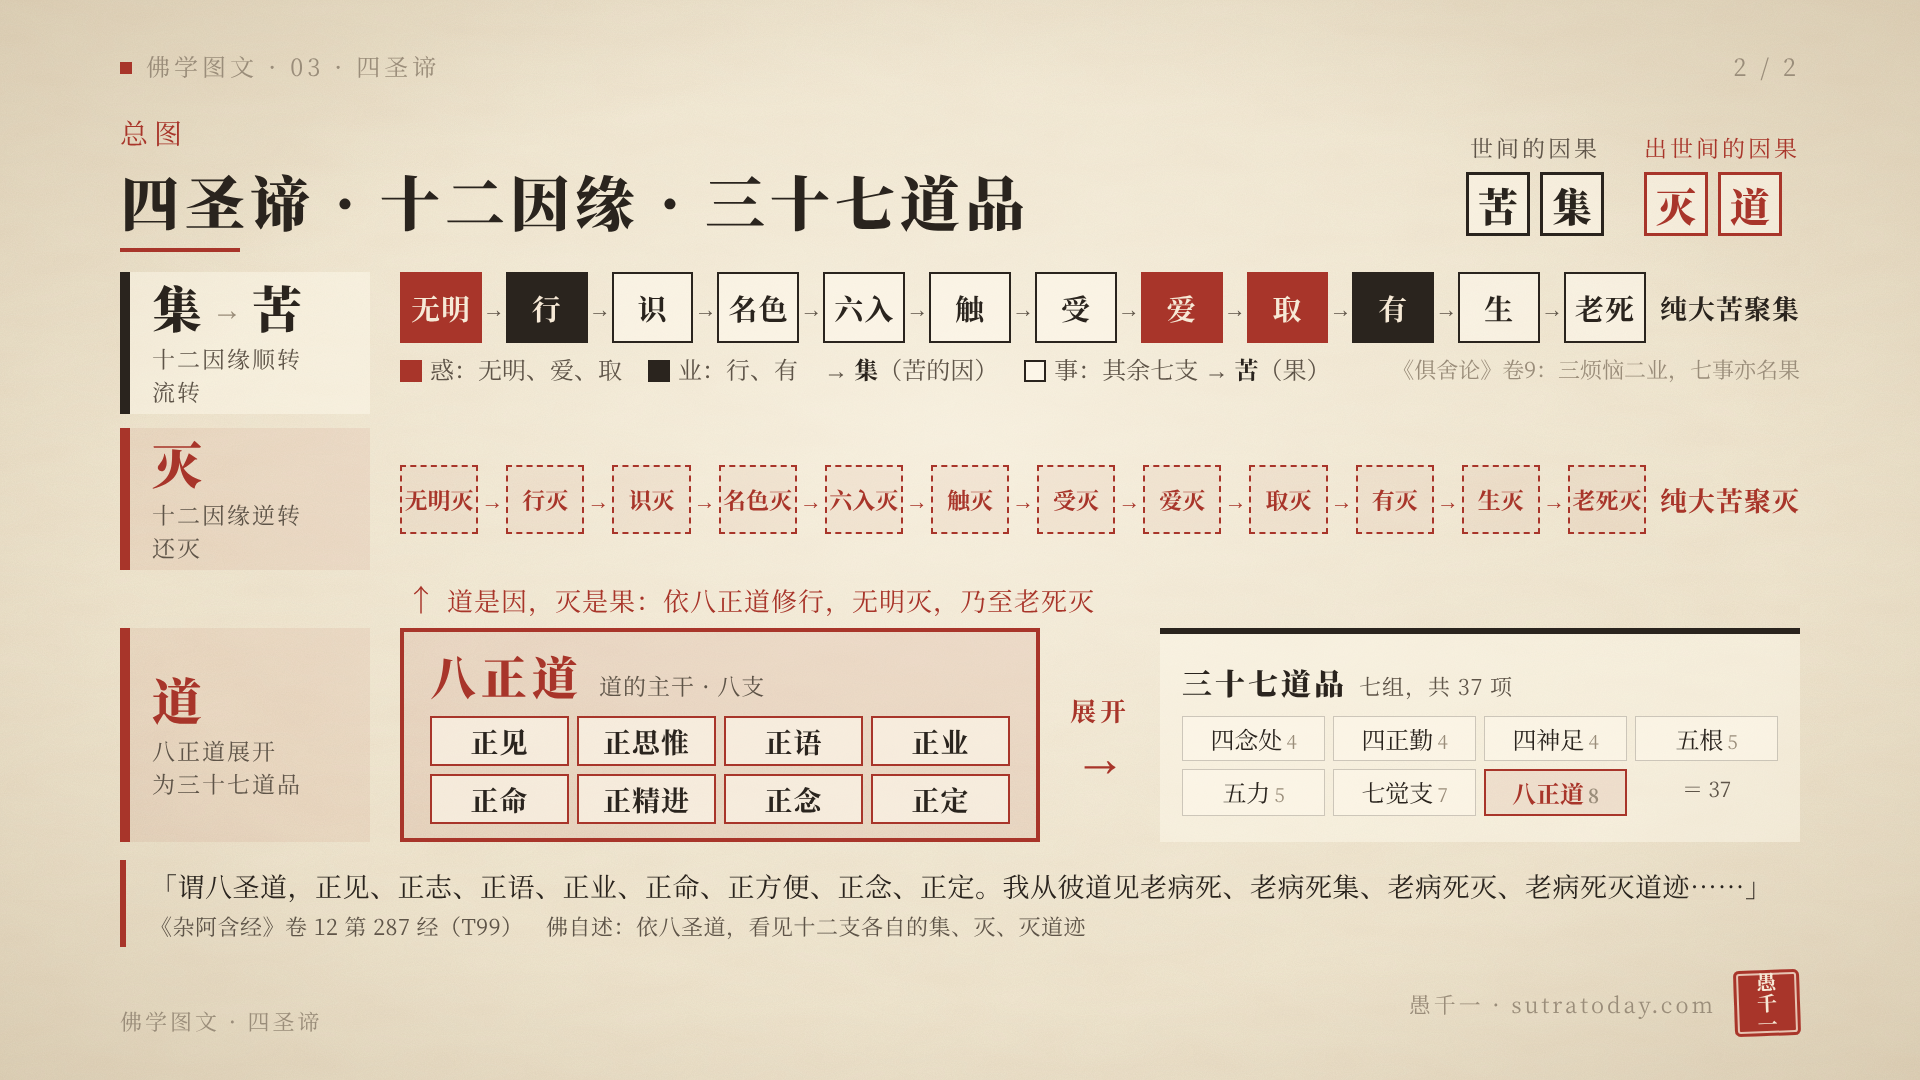
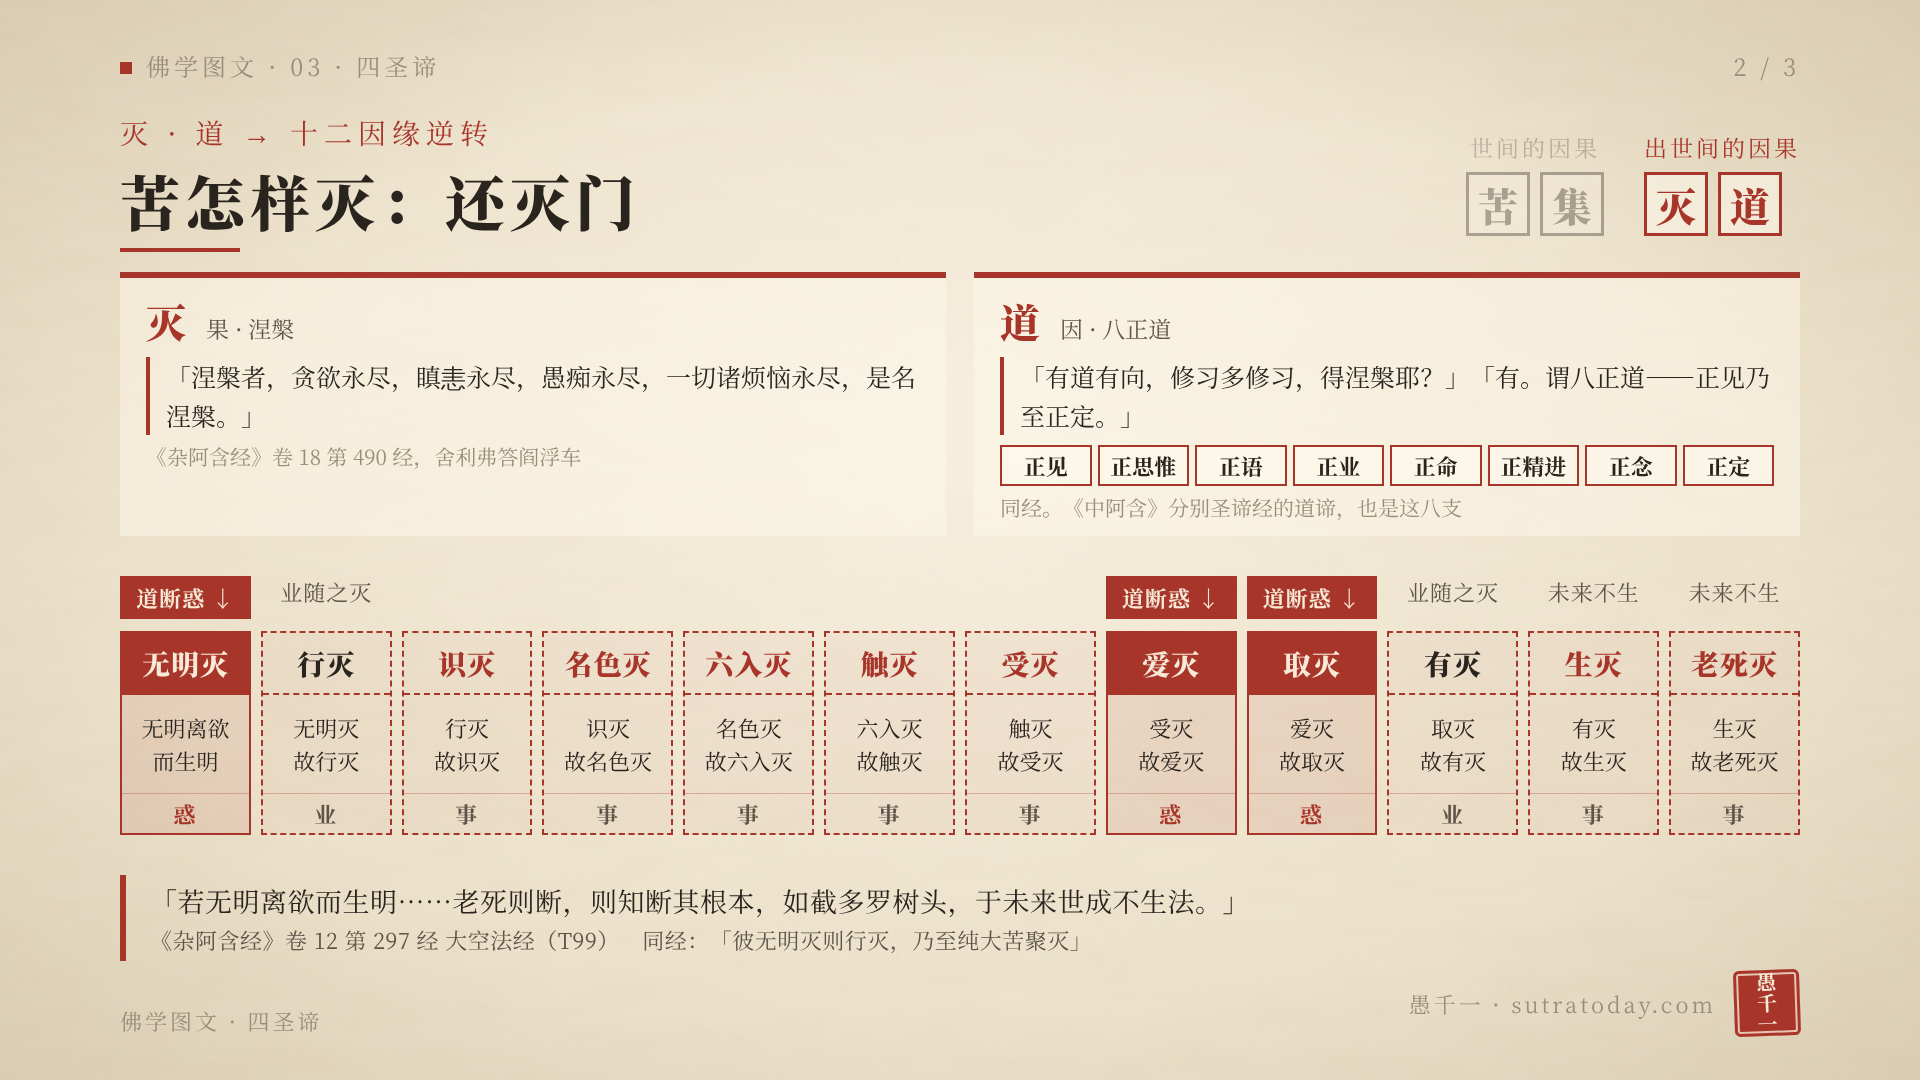
videos: 四圣谛加第三张图——灭道与十二因缘逆转（涅槃、八正道、道断惑）
Claude-Session: https://claude.ai/code/session_01HUmfYdn8wkAM14ebYcQraf

diff --git a/videos/four-noble-truths-infographic/cards.html b/videos/four-noble-truths-infographic/cards.html
@@ -182,6 +182,21 @@
   .zh .z .d { font-size: 22px; line-height: 1.5; padding: 10px 6px 10px; color: var(--ink); text-align: center; }
   .zh .z .t { font-size: 22px; font-weight: 700; color: var(--ink-soft); text-align: center; padding: 4px 0; margin-top: auto; letter-spacing: 2px; border-top: 1px solid var(--line); }
   .zh .z.huo .t { color: var(--cinnabar); }
+
+  /* ===== 灭道卡 ===== */
+  .ks .blk .qt { font-size: 25px; line-height: 1.55; margin-top: 8px; border-left: 4px solid var(--cinnabar); padding-left: 16px; }
+  .ks .bz8 { display: grid; grid-template-columns: repeat(8, 1fr); gap: 6px; margin-top: 10px; }
+  .ks .bz8 i { font-style: normal; text-align: center; font-size: 22px; font-weight: 700; padding: 3px 0; border: 2px solid var(--cinnabar); background: rgba(255,250,238,.6); }
+  .mk { display: grid; grid-template-columns: repeat(12, 1fr); gap: 10px; margin-top: 40px; }
+  .mk div { text-align: center; font-size: 22px; letter-spacing: 1px; padding-bottom: 6px; color: var(--ink-soft); }
+  .mk div.cut { color: #f6e9d6; background: var(--cinnabar); font-weight: 700; padding: 6px 0; }
+  .zh.back .z { border: 2px dashed var(--cinnabar); background: rgba(168,53,42,.04); }
+  .zh.back .z .n { color: var(--cinnabar); background: transparent; border-bottom: 2px dashed var(--cinnabar); font-size: 28px; padding: 10px 0; }
+  .zh.back .z.huo { border-style: solid; background: rgba(168,53,42,.10); }
+  .zh.back .z.huo .n { background: var(--cinnabar); color: #f6e9d6; border-bottom-style: solid; }
+  .zh.back .z.ye .n { background: transparent; color: var(--ink); }
+  .zh.back .z .d { padding: 16px 6px; }
+  .zh.back .z .t { border-top-color: rgba(168,53,42,.3); }
   .q { margin-top: 18px; font-size: 27px; line-height: 1.6; letter-spacing: .5px; border-left: 6px solid var(--cinnabar); padding: 4px 0 4px 24px; }
   .q small { display: block; font-size: 22px; color: var(--ink-soft); }
 </style>
@@ -238,6 +253,69 @@
   </div>
 
   <div class="q" style="margin-top:20px">「此有故彼有，此起故彼起，谓缘无明行，乃至纯大苦聚集。」<small>《杂阿含经》卷 12 第 298 经（T99）：十二支的解释同出此经。三世两重因果依《俱舍论》卷 9「十二支三际，前后际各二，中八据圆满」</small></div>
+
+  <div class="foot"><span>佛学图文 · 四圣谛</span><span class="sign">愚千一 · sutratoday.com<span class="seal">愚千一</span></span></div>
+</section>
+
+<!-- ===== 灭道 与 十二因缘逆转 ===== -->
+<section class="card">
+  <div class="head"><span class="series">佛学图文 · 03 · 四圣谛</span><span class="pg"></span></div>
+  <div class="top">
+    <div>
+      <div class="kicker">灭 · 道 → 十二因缘逆转</div>
+      <h1 class="title">苦怎样灭：还灭门</h1>
+    </div>
+    <div class="di4">
+      <div class="half" style="opacity:.35"><div class="cap">世间的因果</div><div class="ch"><b>苦</b><b>集</b></div></div>
+      <div class="half"><div class="cap r">出世间的因果</div><div class="ch"><b class="r">灭</b><b class="r">道</b></div></div>
+    </div>
+  </div>
+  <div class="rule"></div>
+
+  <div class="ks">
+    <div class="blk" style="border-top-color:var(--cinnabar)">
+      <div class="h"><b style="color:var(--cinnabar)">灭</b><span>果 · 涅槃</span></div>
+      <div class="qt">「涅槃者，贪欲永尽，瞋恚永尽，愚痴永尽，一切诸烦恼永尽，是名涅槃。」</div>
+      <div class="s">《杂阿含经》卷 18 第 490 经，舍利弗答阎浮车</div>
+    </div>
+    <div class="blk" style="border-top-color:var(--cinnabar)">
+      <div class="h"><b style="color:var(--cinnabar)">道</b><span>因 · 八正道</span></div>
+      <div class="qt">「有道有向，修习多修习，得涅槃耶？」「有。谓八正道——正见乃至正定。」</div>
+      <div class="bz8"><i>正见</i><i>正思惟</i><i>正语</i><i>正业</i><i>正命</i><i>正精进</i><i>正念</i><i>正定</i></div>
+      <div class="s">同经。《中阿含》分别圣谛经的道谛，也是这八支</div>
+    </div>
+  </div>
+
+  <div class="mk">
+    <div class="cut">道断惑 ↓</div>
+    <div>业随之灭</div>
+    <div></div>
+    <div></div>
+    <div></div>
+    <div></div>
+    <div></div>
+    <div class="cut">道断惑 ↓</div>
+    <div class="cut">道断惑 ↓</div>
+    <div>业随之灭</div>
+    <div>未来不生</div>
+    <div>未来不生</div>
+  </div>
+  <div class="zh back">
+    <div class="z huo"><div class="n">无明灭</div><div class="d">无明离欲<br>而生明</div><div class="t">惑</div></div>
+    <div class="z ye"><div class="n">行灭</div><div class="d">无明灭<br>故行灭</div><div class="t">业</div></div>
+    <div class="z "><div class="n">识灭</div><div class="d">行灭<br>故识灭</div><div class="t">事</div></div>
+    <div class="z "><div class="n">名色灭</div><div class="d">识灭<br>故名色灭</div><div class="t">事</div></div>
+    <div class="z "><div class="n">六入灭</div><div class="d">名色灭<br>故六入灭</div><div class="t">事</div></div>
+    <div class="z "><div class="n">触灭</div><div class="d">六入灭<br>故触灭</div><div class="t">事</div></div>
+    <div class="z "><div class="n">受灭</div><div class="d">触灭<br>故受灭</div><div class="t">事</div></div>
+    <div class="z huo"><div class="n">爱灭</div><div class="d">受灭<br>故爱灭</div><div class="t">惑</div></div>
+    <div class="z huo"><div class="n">取灭</div><div class="d">爱灭<br>故取灭</div><div class="t">惑</div></div>
+    <div class="z ye"><div class="n">有灭</div><div class="d">取灭<br>故有灭</div><div class="t">业</div></div>
+    <div class="z "><div class="n">生灭</div><div class="d">有灭<br>故生灭</div><div class="t">事</div></div>
+    <div class="z "><div class="n">老死灭</div><div class="d">生灭<br>故老死灭</div><div class="t">事</div></div>
+  </div>
+
+  <div class="q" style="margin-top:40px">「若无明离欲而生明……老死则断，则知断其根本，如截多罗树头，于未来世成不生法。」<small>《杂阿含经》卷 12 第 297 经 大空法经（T99）　同经：「彼无明灭则行灭，乃至纯大苦聚灭」</small></div>
 
   <div class="foot"><span>佛学图文 · 四圣谛</span><span class="sign">愚千一 · sutratoday.com<span class="seal">愚千一</span></span></div>
 </section>

diff --git a/videos/four-noble-truths-infographic/sources.md b/videos/four-noble-truths-infographic/sources.md
@@ -10,6 +10,10 @@
 | 苦集 | 云何爱习苦习圣谛？谓众生实有爱内六处……于中若有爱、有腻、有染、有著者，是名为习 | 《中阿含经》卷 7 第 31 经 分别圣谛经 |
 | 苦集 | 此有故彼有，此起故彼起，谓缘无明行，乃至纯大苦聚集；十二支逐支解释（无明＝不知前际后际……不知苦集灭道；行＝身行口行意行；识＝六识身；名色＝四无色阴＋四大及所造色；六入处＝六内入处；触＝六触身；受＝三受；爱＝欲爱色爱无色爱；取＝欲取见取戒取我取；有＝欲有色有无色有；生＝得阴、得界、得入处、得命根；老死＝发白……身坏、寿尽、命灭） | 《杂阿含经》卷 12 第 298 经（T99） |
 | 苦集 | 如是诸缘起，十二支三际，前后际各二，中八据圆满 | 《阿毘达磨俱舍论》卷 9（T1558） |
+| 灭道 | 涅槃者，贪欲永尽，瞋恚永尽，愚痴永尽，一切诸烦恼永尽，是名涅槃 | 《杂阿含经》卷 18 第 490 经（T99），舍利弗答阎浮车 |
+| 灭道 | 有道有向，修习多修习，得涅槃耶？……有。谓八正道——正见乃至正定 | 《杂阿含经》卷 18 第 490 经 |
+| 灭道 | 云何爱灭苦灭圣谛……不染不著、断舍吐尽、无欲、灭、止没者，是名苦灭；云何苦灭道圣谛？谓正见、正志……正定 | 《中阿含经》卷 7 第 31 经 分别圣谛经 |
+| 灭道 | 若无明离欲而生明……老死则断，则知断其根本，如截多罗树头，于未来世成不生法；彼无明灭则行灭，乃至纯大苦聚灭 | 《杂阿含经》卷 12 第 297 经 大空法经 |
 
 ## 图上的说法与依据
 
@@ -17,5 +21,6 @@
 - 世间的因果（集因苦果）、出世间的因果（道因灭果）：汉传通行的四谛解说，不是某一部经的原句。
 - 三世两重因果与集、苦的对应（过去因、现在因＝集；现在果、未来果＝苦）：依《俱舍论》卷 9 三际分支与「惑业事」的说法排出，是论家的解说，不是经文原句。
 - 卡片里的十二支解释是对第 298 经原文的节略，没有改动意思。
+- 灭道卡上方的「道断惑」「业随之灭」「未来不生」：依《俱舍论》卷 9 惑、业、事的分法标出，经文原句是「无明灭则行灭……乃至纯大苦聚灭」。
 - 三十七道品 = 四念处 4、四正勤 4、四神足 4、五根 5、五力 5、七觉支 7、八正道 8。
 - 八正道的名称：图上用通行译名（正思惟、正精进）；《杂阿含》第 287 经作「正志」「正方便」，引文保留原文。
